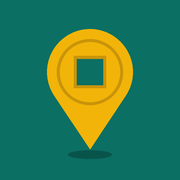
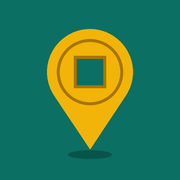
아이콘: 엽전 테두리를 진하게 해 작은 크기에서 또렷하게
Claude-Session: https://claude.ai/code/session_01EKWXqoC4rLU6Su9GQt7A9P

Changed region(s): [[0.3056, 0.1944, 0.6944, 0.5556], [0.3889, 0.3056, 0.6111, 0.5], [0.4167, 0.5556, 0.5833, 0.5833]]

diff --git a/beta.html b/beta.html
@@ -13,8 +13,8 @@
 <meta property="og:image:width" content="1200"><meta property="og:image:height" content="630">
 <meta property="og:url" content="https://scvstyle.github.io/ontong-map/">
 <meta name="twitter:card" content="summary_large_image">
-<link rel="icon" type="image/png" href="favicon.png?v=2">
-<link rel="apple-touch-icon" href="apple-touch-icon.png?v=2">
+<link rel="icon" type="image/png" href="favicon.png?v=3">
+<link rel="apple-touch-icon" href="apple-touch-icon.png?v=3">
 <script>/* Cloudflare Web Analytics: 쿠키 없음. 운영자 링크(#ops-)로 열면 불러오지 않음 */
 if(!/^#ops-/.test(location.hash)){var cf=document.createElement('script');cf.defer=true;cf.src='https://static.cloudflareinsights.com/beacon.min.js';cf.setAttribute('data-cf-beacon','{"token":"66ce5617cd3244bf8715c51d47ecc46b"}');document.head.appendChild(cf);}</script>
 <link rel="preconnect" href="https://cdn.jsdelivr.net">

diff --git a/index.html b/index.html
@@ -13,8 +13,8 @@
 <meta property="og:image:width" content="1200"><meta property="og:image:height" content="630">
 <meta property="og:url" content="https://scvstyle.github.io/ontong-map/">
 <meta name="twitter:card" content="summary_large_image">
-<link rel="icon" type="image/png" href="favicon.png?v=2">
-<link rel="apple-touch-icon" href="apple-touch-icon.png?v=2">
+<link rel="icon" type="image/png" href="favicon.png?v=3">
+<link rel="apple-touch-icon" href="apple-touch-icon.png?v=3">
 <script>/* Cloudflare Web Analytics: 쿠키 없음. 운영자 링크(#ops-)로 열면 불러오지 않음 */
 if(!/^#ops-/.test(location.hash)){var cf=document.createElement('script');cf.defer=true;cf.src='https://static.cloudflareinsights.com/beacon.min.js';cf.setAttribute('data-cf-beacon','{"token":"66ce5617cd3244bf8715c51d47ecc46b"}');document.head.appendChild(cf);}</script>
 <link rel="preconnect" href="https://cdn.jsdelivr.net">
